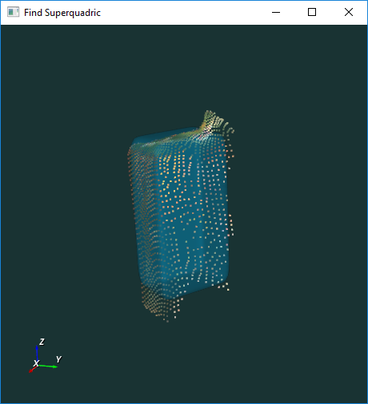
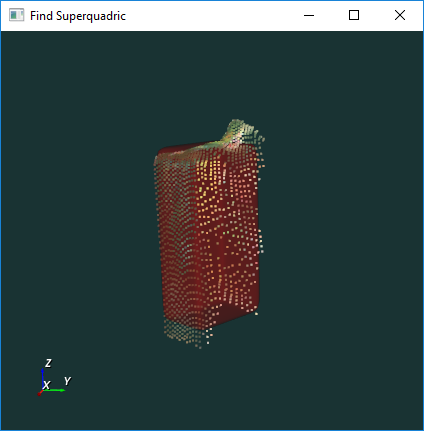
default inside-penalty=1
fixed contour

Changed region(s): [[0.3288, 0.2673, 0.6277, 0.802], [0.0, 0.0, 1.0, 0.0891], [0.0897, 0.8317, 0.1793, 0.9208]]

diff --git a/src/main.cpp b/src/main.cpp
@@ -217,7 +217,7 @@ public:
 
         vtk_contours=vtkSmartPointer<vtkContourFilter>::New();
         vtk_contours->SetInputConnection(vtk_sample->GetOutputPort());
-        vtk_contours->GenerateValues(1,1.0,1.0);
+        vtk_contours->GenerateValues(1,0.0,0.0);
 
         vtk_mapper=vtkSmartPointer<vtkPolyDataMapper>::New();
         vtk_mapper->SetInputConnection(vtk_contours->GetOutputPort());
@@ -442,7 +442,7 @@ class Finder : public RFModule
 
         uniform_sample=(unsigned int)rf.check("uniform-sample",Value(1)).asInt();
         random_sample=rf.check("random-sample",Value(1.0)).asDouble();
-        inside_penalty=rf.check("inside-penalty",Value(100.0)).asDouble();
+        inside_penalty=rf.check("inside-penalty",Value(1.0)).asDouble();
         test_derivative=rf.check("test-derivative");
         viewer_enabled=!rf.check("disable-viewer");
 

diff --git a/README.md b/README.md
@@ -26,7 +26,7 @@ The equation of the superquadric is the following:
   - `1` means no down-sampling
   - `> 1` enables down-sampling
 - `--random-sample <double>`: specify the percentage in [0,1] for performing random down-sampling.
-- `--inside-penalty <double>`: specify how much to penalize points that will lie inside the superquadric's isosurface wrt points lying outside (default = 100.0).
+- `--inside-penalty <double>`: specify how much to penalize points that will lie inside the superquadric's isosurface wrt points lying outside (default = 1.0).
 - `--disable-viewer`: specify not to launch the viewer.
 
 ### Real-time mode
